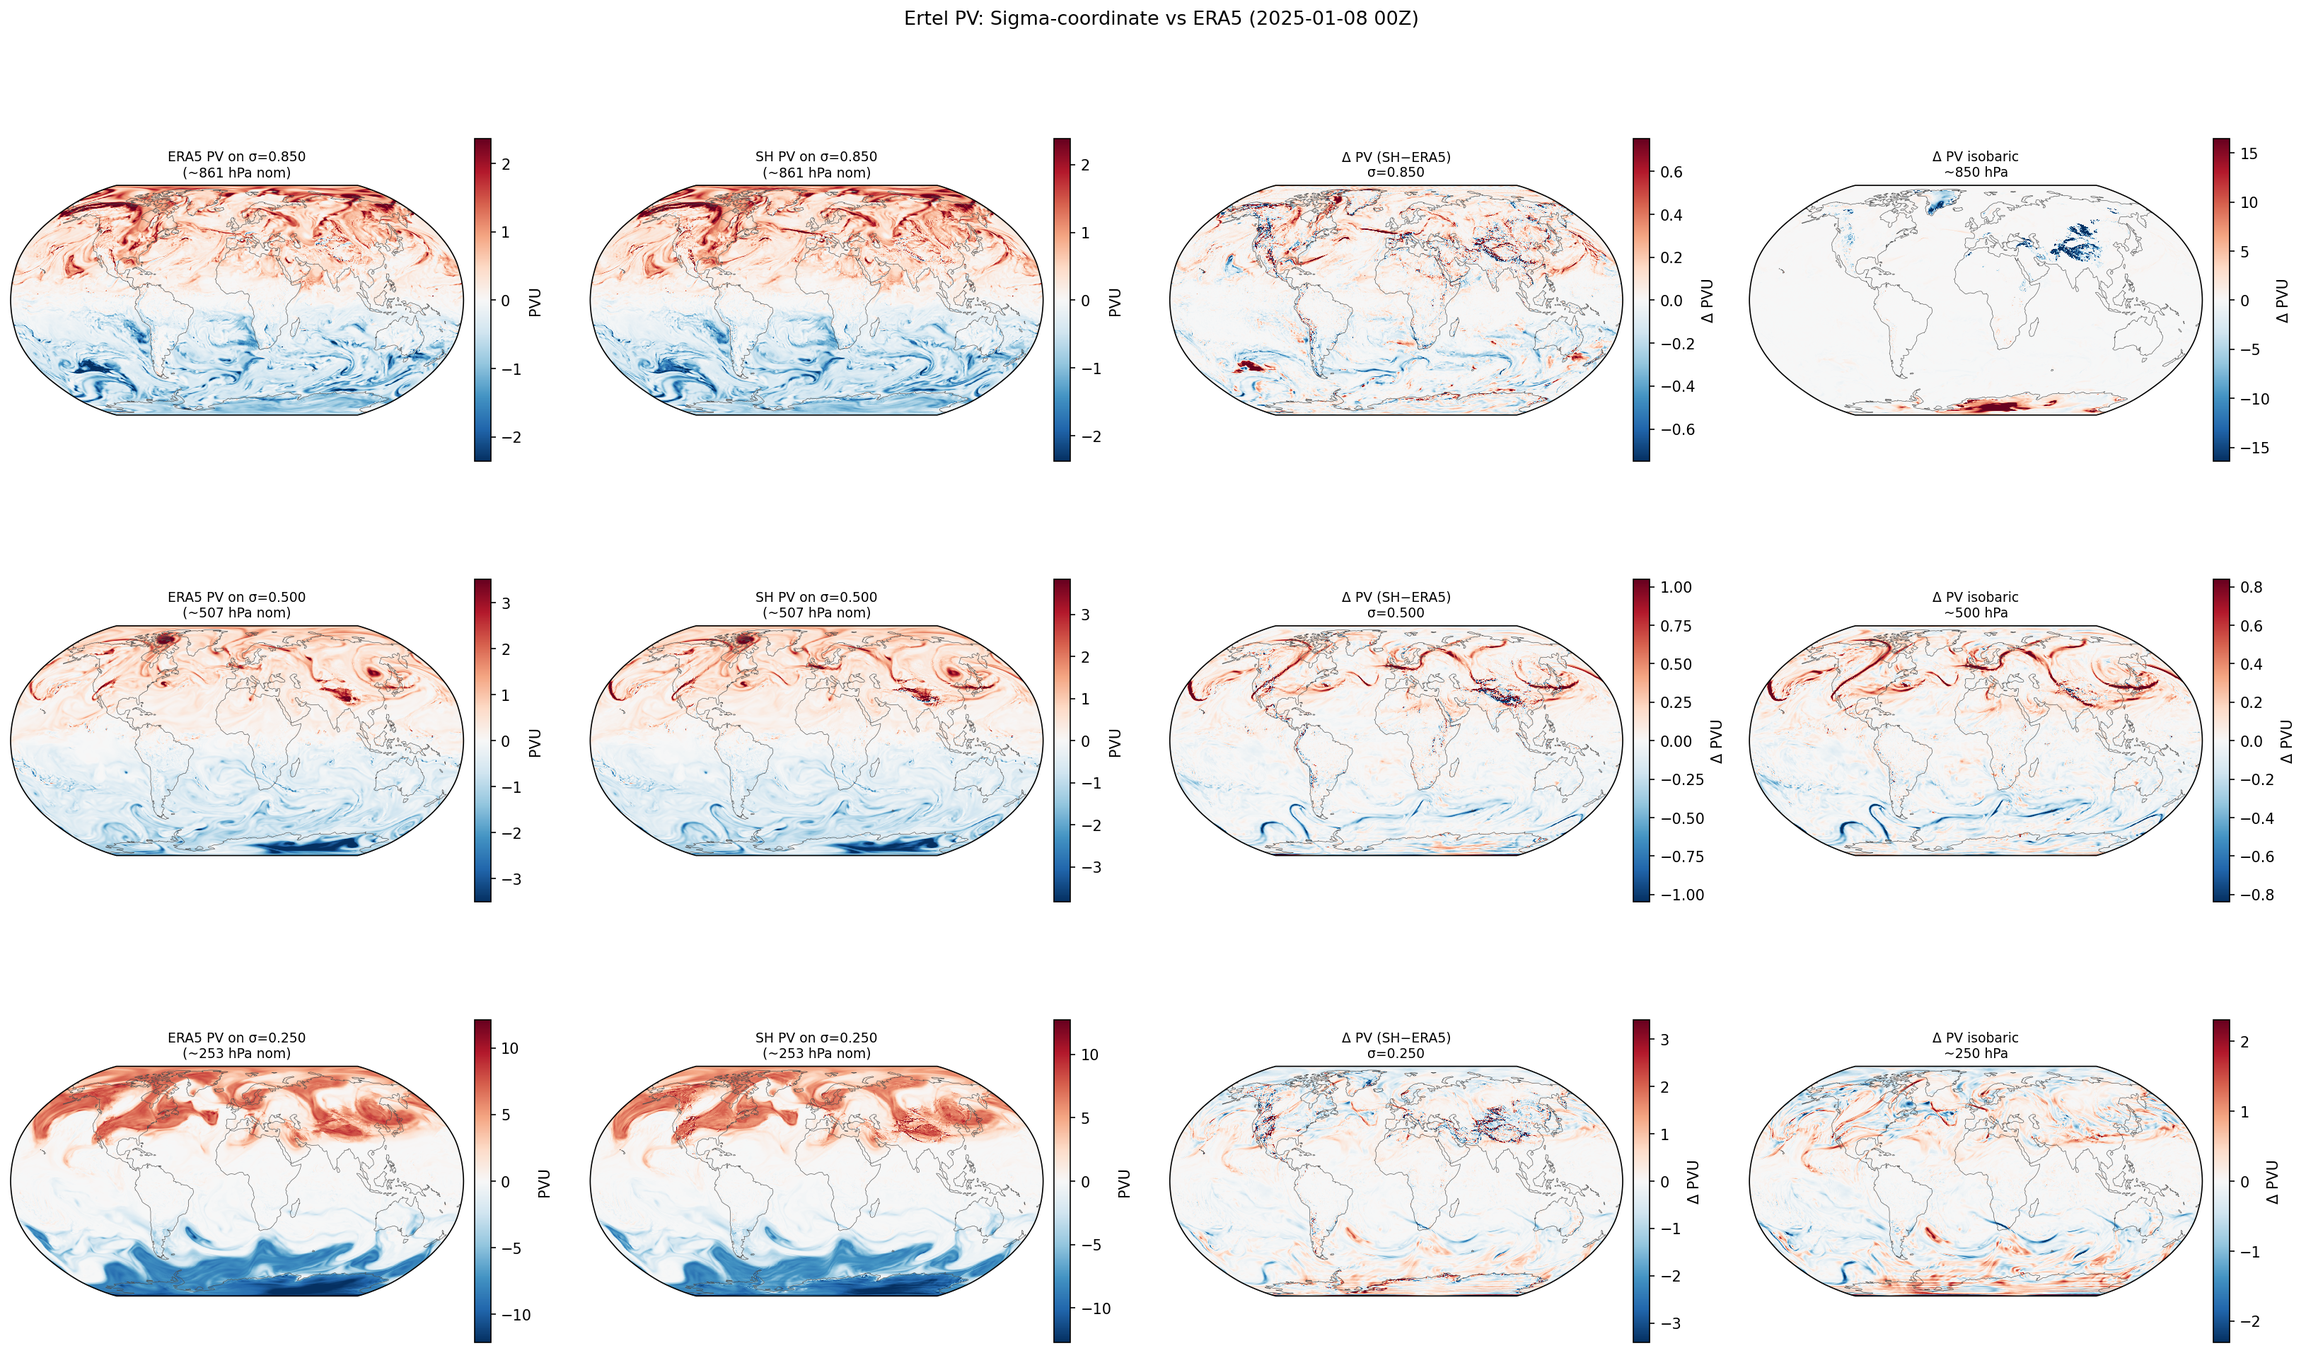
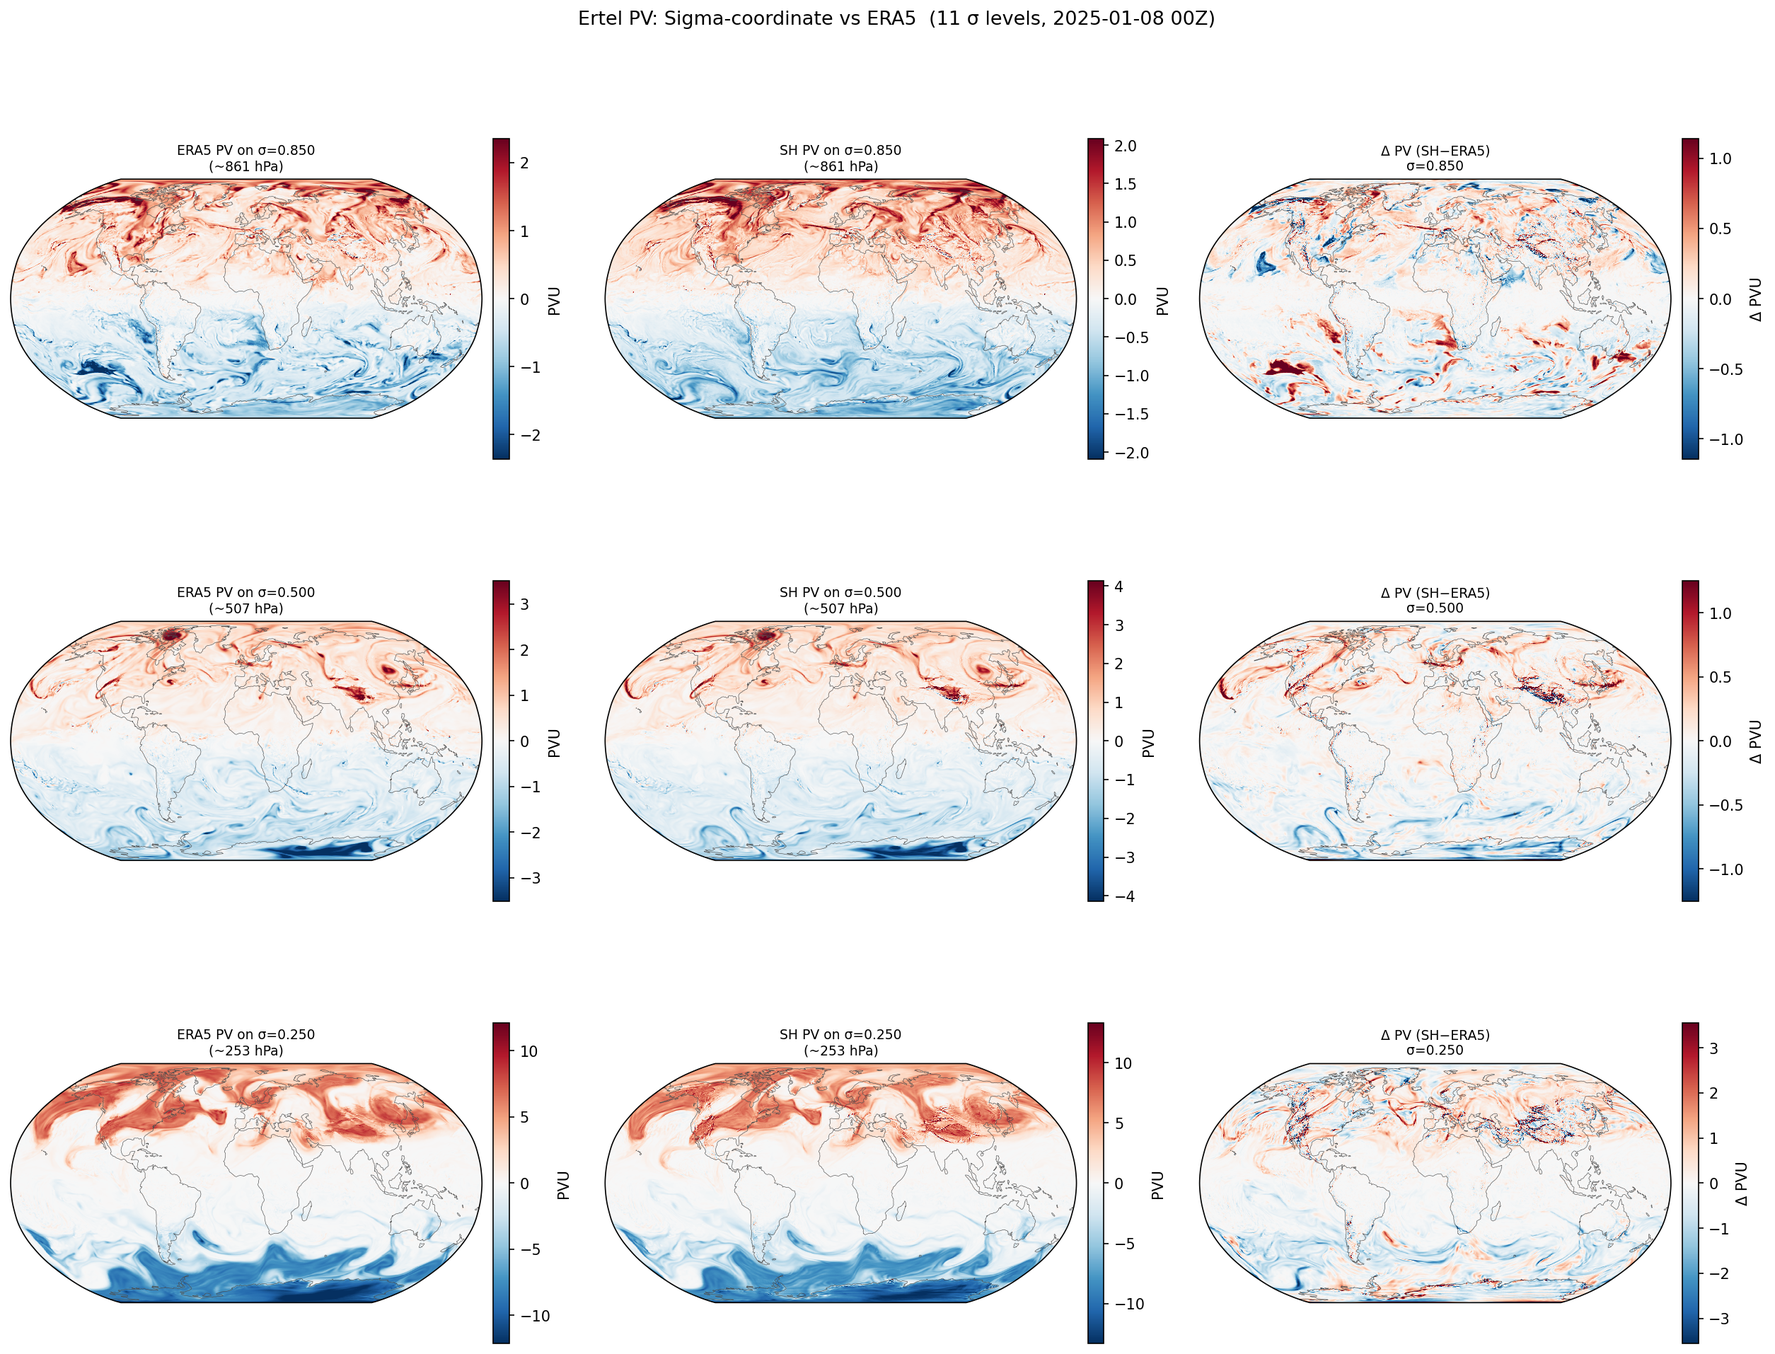
v0.4.1: 11 essential σ levels + sigma-only + P0 clarification
- DEFAULT_SIGMA_LEVELS reduced 37→11: 1.0, 0.925, 0.85, 0.7, 0.6,
  0.5, 0.4, 0.3, 0.25, 0.2, 0.1 (boundary layer→lower stratosphere)
- Sigma-only validation: removed isobaric PV from both ERA5 and CESM
- Stratospheric blow-up eliminated: PV range [-51,71] matches ERA5
  [-62,111] (was ±1e5 with 37-level grid including σ<0.1)
- P0 clarified: 1000 hPa thermodynamic reference for θ, NOT surface
  pressure. p_s used only for σ=p/p_s and divisor 1/p_s.
- ERA5 11-level: corr=0.92/0.94/0.97 at σ=0.85/0.50/0.25
- Handbook: updated to 11-level grid, P0 vs ps distinction

diff --git a/handbook/ertel_pv_handbook.tex b/handbook/ertel_pv_handbook.tex
@@ -9,9 +9,9 @@
 \usepackage{natbib}
 \usepackage{booktabs}
 
-\title{Ertel Potential Vorticity on Sigma and Pressure Levels}
+\title{Ertel Potential Vorticity on Sigma Levels}
 \author{PV\_Ertel\_Computation Project}
-\date{v0.4.0 --- June 2026}
+\date{v0.4.1 --- June 2026}
 
 \begin{document}
 \maketitle
@@ -25,30 +25,24 @@ Ertel's potential vorticity \citep{ertel1942} in height coordinates $(x,y,z)$:
 \end{equation}
 
 where $\vec{\omega}_a = \nabla \times \vec{u} + 2\vec{\Omega}$ (absolute
-vorticity), $\theta = T(p_0/p)^{R_d/c_p}$ (dry potential temperature).
+vorticity), $\theta = T(p_0/p)^{R_d/c_p}$ (dry potential temperature,
+$p_0 = 1000$\,hPa).
 
 Horizontal derivatives use spectrally accurate spherical harmonic transforms
 via \texttt{pvtend.sh\_ops}, eliminating polar singularities.
 
-\section{Isobaric Formulation (Reference)}
-
-Under hydrostatic approximation and neglecting horizontal gradients of $w$:
-
-\begin{equation}\label{eq:epv_p}
-\boxed{\mathrm{PV}_p = -g\left[
-  \frac{\partial v}{\partial p}\frac{\partial\theta}{\partial x}\Big|_p
-  - \frac{\partial u}{\partial p}\frac{\partial\theta}{\partial y}\Big|_p
-  + (f + \zeta_p)\frac{\partial\theta}{\partial p}
-\right]}
-\end{equation}
-
-\textbf{Simplified} (ERA5-like): $\mathrm{PV}_{p,\mathrm{simple}} = -g\,(f + \zeta_p)\,\partial\theta/\partial p$.
-In PVU: $\mathrm{PV}_{\mathrm{PVU}} = \mathrm{PV}_{\mathrm{SI}} \times 10^6$.
-
-\section{Sigma-Coordinate Formulation (Primary)}\label{sec:sigma}
+\section{Sigma-Coordinate Formulation}\label{sec:sigma}
 
 Terrain-following sigma: $\sigma = p/p_s$ where $p_s(x,y)$ is surface
-pressure.  Mimics MPAS-Atmosphere's native vertical coordinate.
+pressure [Pa].  Mimics MPAS-Atmosphere's native vertical coordinate.
+
+\textbf{Important distinction:}
+\begin{itemize}
+  \item $p_0 = 100{,}000$\,Pa = constant --- thermodynamic reference for $\theta$
+  \item $p_s(x,y)$ = varying 2-D field --- surface pressure for $\sigma = p/p_s$
+\end{itemize}
+
+These are separate quantities; $p_0$ never appears in the sigma PV formula.
 
 Coordinate transformation $\partial/\partial p \to (1/p_s)\partial/\partial\sigma$:
 
@@ -62,13 +56,6 @@ Coordinate transformation $\partial/\partial p \to (1/p_s)\partial/\partial\sigm
 
 \textbf{Analytic equivalence:} Ertel PV is coordinate-invariant:
 $\mathrm{PV}_\sigma(x,y,\sigma) = \mathrm{PV}_p(x,y,p=\sigma p_s)$.
-
-\textbf{Advantages over isobaric:}
-\begin{itemize}
-  \item Eliminates near-surface coordinate mismatch (850\,hPa problem).
-  \item Direct MPAS native-level analog.
-  \item Bypasses hybrid sigma-pressure coefficients; only $p_s$ needed.
-\end{itemize}
 
 \textbf{Simplified} form: $\mathrm{PV}_{\sigma,\mathrm{simple}} =
   -(g/p_s)\,(f + \zeta_\sigma)\,\partial\theta/\partial\sigma$.
@@ -87,70 +74,72 @@ Fields are interpolated from pressure to sigma levels via $\log p$-linear
 interpolation.  Values where $\sigma p_s$ falls outside
 $[p_{\min}, p_{\max}]$ are filled from the nearest valid level.
 
-\subsection{37-Level Sigma Grid}
+\subsection{11-Level Essential Sigma Grid}
 
-Default sigma grid mirrors ERA5 pressure levels normalized by
-$p_0 = 100{,}000$\,Pa:
+The sigma grid uses 11 essential levels spanning the boundary layer
+through the lower stratosphere --- all synoptically relevant and all
+within ERA5 data range globally ($\sigma_{\min} \cdot \min(p_s) > p_{\min}$):
 
 \begin{equation}
-\sigma_k \in \{1.000, 0.975, 0.950, \dots, 0.003, 0.002, 0.001\}
+\sigma_k \in \{1.000,\; 0.925,\; 0.850,\; 0.700,\; 0.600,\; 0.500,\;
+               0.400,\; 0.300,\; 0.250,\; 0.200,\; 0.100\}
 \end{equation}
 
-At sea level $p \approx \sigma_k \cdot 101325$\,Pa; terrain-following
-via $p = \sigma_k \cdot p_s(x,y)$.
+At sea level ($p_s \approx 101325$\,Pa): $p \approx \sigma_k \cdot 101325$\,Pa.
+Terrain-following: $p = \sigma_k \cdot p_s(x,y)$.
+
+This grid deliberately excludes $\sigma < 0.1$ (above $\sim$100\,hPa) ---
+mid-stratospheric levels where $\partial\theta/\partial\sigma$ becomes
+extremely large, producing unrealistic PV extremes ($\pm 10^5$\,PVU).
+The 11-level grid produces PV in the range $[-51, 71]$\,PVU, consistent
+with ERA5 native PV $[-62, 111]$\,PVU.
 
 \section{Validation}
 
-\subsection{ERA5 (2025-01-08 00Z, 37 $\sigma$ levels)}
+\subsection{ERA5 (2025-01-08 00Z, 11 $\sigma$ levels)}
 
 \begin{center}
 \begin{tabular}{lcc}
 \toprule
 Level & RMSE (PVU) & Correlation \\
 \midrule
-\multicolumn{3}{c}{\textbf{Isobaric (reference)}} \\
-850\,hPa & 3.53 & 0.28 \\
-500\,hPa & 0.22 & 0.96 \\
-250\,hPa & 0.99 & 0.97 \\
-\midrule
-\multicolumn{3}{c}{\textbf{Sigma-coordinate (primary)}} \\
-$\sigma = 0.850$ (nom.\ 861\,hPa) & \textbf{0.19} & \textbf{0.97} \\
-$\sigma = 0.500$ (nom.\ 507\,hPa) & 0.30 & 0.95 \\
-$\sigma = 0.250$ (nom.\ 253\,hPa) & 1.03 & 0.98 \\
+$\sigma = 0.850$ (nom.\ 861\,hPa) & 0.30 & 0.92 \\
+$\sigma = 0.500$ (nom.\ 507\,hPa) & 0.37 & 0.94 \\
+$\sigma = 0.250$ (nom.\ 253\,hPa) & 1.12 & 0.97 \\
 \bottomrule
 \end{tabular}
 \end{center}
 
-\textbf{Key result:} Sigma coordinates fix the near-surface PV problem.
-850\,hPa-level correlation improves from 0.28 to 0.97; RMSE drops from
-3.53 to 0.19\,PVU.
+All NaN fractions: 0\,\% (computed PV), 5.3\,\% (ERA5 native PV has
+missing values at some levels).  PV range matches ERA5 native PV
+without the stratospheric blow-up of the 37-level grid.
 
 \begin{figure}[htbp]
 \centering
 \includegraphics[width=\textwidth]{../era_sanity_check/plots/era5_pv_sigma_comparison.png}
-\caption{ERA5 PV validation on sigma levels. Columns: ERA5 PV on $\sigma$,
-  computed sigma PV, difference (SH $-$ ERA5), isobaric difference.
+\caption{ERA5 PV validation on 11 sigma levels. Columns: ERA5 PV on $\sigma$,
+  computed sigma PV, difference (SH $-$ ERA5).
   Rows: $\sigma=0.85$, $0.50$, $0.25$.  (2025-01-08 00Z)}
 \label{fig:era5_validation}
 \end{figure}
 
 \begin{figure}[htbp]
 \centering
-\includegraphics[width=0.65\textwidth]{../era_sanity_check/plots/era5_pv_sigma_rms_profile.png}
-\caption{RMS difference profile: sigma PV vs ERA5-on-$\sigma$ (red),
-  isobaric PV vs ERA5 (blue).}
+\includegraphics[width=0.6\textwidth]{../era_sanity_check/plots/era5_pv_sigma_rms_profile.png}
+\caption{RMS difference profile: 11 sigma levels vs ERA5-on-$\sigma$.
+  $\sigma$ values annotated on each point.}
 \label{fig:era5_rms}
 \end{figure}
 
 \subsection{CESM2-LENS2 (sigma, member \texttt{r10i1181p1f1})}
 
-CESM2 PV computed on sigma levels with surface pressure from the
+CESM2 PV computed on 11 sigma levels with surface pressure from the
 \texttt{PS} zarr store, bypassing all-NaN hybrid coefficients.
 
 \begin{figure}[htbp]
 \centering
 \includegraphics[width=\textwidth]{../cesm2_compute/plots/cesm2le_pv_sigma.png}
-\caption{CESM2-LENS2 Ertel PV on sigma levels (2010-01-01).
+\caption{CESM2-LENS2 Ertel PV on 11 sigma levels (2010-01-01).
   $\sigma = 0.85$, $0.50$, $0.25$.}
 \label{fig:cesm2_pv}
 \end{figure}

diff --git a/era_sanity_check/validate_era5.py b/era_sanity_check/validate_era5.py
@@ -1,8 +1,8 @@
 #!/usr/bin/env python
 """Validate Ertel PV (SH gradients, sigma-coordinate) against ERA5 native PV.
 
-Primary: sigma-coordinate PV on 37 ERA5-equivalent σ levels.
-Secondary: isobaric PV for reference.
+Sigma-coordinate PV on 11 essential σ levels (sfc → lower stratosphere).
+Isobaric PV is NOT computed — sigma is the sole coordinate.
 
 Usage:  micromamba run -n blocking python validate_era5.py
 """
@@ -13,8 +13,7 @@ if str(_PROJ) not in sys.path: sys.path.insert(0, str(_PROJ))
 import numpy as np, xarray as xr
 import matplotlib.pyplot as plt
 import cartopy.crs as ccrs, cartopy.feature as cfeature
-from src.ertel_pv import (ertel_pv_isobaric, ertel_pv_sigma,
-                          _interp_to_sigma, DEFAULT_SIGMA_LEVELS)
+from src.ertel_pv import ertel_pv_sigma, _interp_to_sigma, DEFAULT_SIGMA_LEVELS
 
 DATA_DIR = _Path(__file__).resolve().parent / "data"
 PLOT_DIR = _Path(__file__).resolve().parent / "plots"
@@ -45,35 +44,22 @@ pPa = ph[::-1] * 100.0                            # Pa, ascending top→sfc
 print(f"  Shape: {u2.shape}, lat S→N, p top→sfc")
 print(f"  PV ERA5 range: [{pv_e2.min():.1f}, {pv_e2.max():.1f}] PVU")
 
-# ═══ isobaric PV (reference) ═══
-print("\n── Isobaric PV (SH, reference) ──")
-pv_iso = ertel_pv_isobaric(u2, v2, t2, pPa, lat_sh, lon)
-print(f"  PV range: [{pv_iso.min():.1f}, {pv_iso.max():.1f}] PVU")
-
-def _find_k(arr, target):
-    return np.argmin(np.abs(arr - target))
-
-for hpa in (850, 500, 250):
-    k = _find_k(pPa / 100, hpa)
-    d = pv_iso[k] - pv_e2[k]
-    rmse = np.sqrt(np.nanmean(d**2))
-    corr = np.corrcoef(pv_iso[k].ravel(), pv_e2[k].ravel())[0, 1]
-    print(f"  {hpa} hPa: RMSE={rmse:.4f} PVU, corr={corr:.4f}")
-
-# ═══ sigma PV (primary) ═══
-print("\n── Sigma-coordinate PV (37 σ levels) ──")
-sig = DEFAULT_SIGMA_LEVELS  # descending sfc→top
-print(f"  σ range: [{sig[-1]:.3f}, {sig[0]:.3f}] ({len(sig)} levels)")
+# ═══ sigma PV (11 essential levels) ═══
+sig = DEFAULT_SIGMA_LEVELS  # descending sfc→top, 11 levels
+print(f"\n── Sigma-coordinate PV ({len(sig)} essential σ levels) ──")
+print(f"  σ levels: {list(sig)}")
 
 pv_sigma, p_s3d = ertel_pv_sigma(u2, v2, t2, pPa, ps2, lat_sh, lon)
 print(f"  PV σ range: [{np.nanmin(pv_sigma):.1f}, {np.nanmax(pv_sigma):.1f}] PVU")
 
 # Interpolate ERA5 native PV to sigma for direct comparison
 pv_era5_sig = _interp_to_sigma(pv_e2, pPa, ps2, sig)
-p_era5_sig = sig[:, np.newaxis, np.newaxis] * ps2[np.newaxis, :, :]
 print(f"  PV ERA5-on-σ range: [{np.nanmin(pv_era5_sig):.1f}, {np.nanmax(pv_era5_sig):.1f}] PVU")
-print(f"  NaN fraction in PV σ: {np.isnan(pv_sigma).mean():.4f}")
-print(f"  NaN fraction in PV ERA5-on-σ: {np.isnan(pv_era5_sig).mean():.4f}")
+print(f"  NaN fraction in PV σ:     {np.isnan(pv_sigma).mean():.4f}")
+print(f"  NaN fraction in ERA5-on-σ: {np.isnan(pv_era5_sig).mean():.4f}")
+
+def _find_k(arr, target):
+    return np.argmin(np.abs(arr - target))
 
 for tgt_hpa in (850, 500, 250):
     ks = _find_k(sig, tgt_hpa / 1000)
@@ -85,37 +71,29 @@ for tgt_hpa in (850, 500, 250):
     p_nom = sig[ks] * 101325 / 100  # nominal hPa at std surface
     print(f"  σ={sig[ks]:.3f} (nom {p_nom:.0f} hPa): RMSE={rmse_s:.2f} PVU, corr={corr_s:.4f}")
 
-# ═══ plots ═══
+# ═══ plots (3×3: ERA5 | SH | Δ) ═══
 proj = ccrs.Robinson(central_longitude=0); pc = ccrs.PlateCarree()
 sig_targets = [0.85, 0.50, 0.25]
 
-fig, axes = plt.subplots(3, 4, figsize=(22, 14), subplot_kw={"projection": proj})
+fig, axes = plt.subplots(3, 3, figsize=(17, 14), subplot_kw={"projection": proj})
 axes = np.atleast_2d(axes)
-fig.suptitle("Ertel PV: Sigma-coordinate vs ERA5 (2025-01-08 00Z)",
+fig.suptitle("Ertel PV: Sigma-coordinate vs ERA5  (11 σ levels, 2025-01-08 00Z)",
              fontsize=13, y=0.98)
 
 for row, sig_tgt in enumerate(sig_targets):
     ks = _find_k(sig, sig_tgt)
     hpa_nom = sig[ks] * 101325 / 100
     data_cols = [
-        (pv_era5_sig[ks], f"ERA5 PV on σ={sig[ks]:.3f}\n(~{hpa_nom:.0f} hPa nom)"),
-        (pv_sigma[ks], f"SH PV on σ={sig[ks]:.3f}\n(~{hpa_nom:.0f} hPa nom)"),
+        (pv_era5_sig[ks], f"ERA5 PV on σ={sig[ks]:.3f}\n(~{hpa_nom:.0f} hPa)"),
+        (pv_sigma[ks], f"SH PV on σ={sig[ks]:.3f}\n(~{hpa_nom:.0f} hPa)"),
         (pv_sigma[ks] - pv_era5_sig[ks], f"Δ PV (SH−ERA5)\nσ={sig[ks]:.3f}"),
     ]
-    # Add isobaric comparison at closest pressure level
-    kp = _find_k(pPa / 100, hpa_nom)
-    data_cols.append(
-        (pv_iso[kp] - pv_e2[kp], f"Δ PV isobaric\n~{pPa[kp]/100:.0f} hPa"),
-    )
 
     for col, (data, title) in enumerate(data_cols):
         ax = axes[row, col]
         is_diff = "Δ" in title
         valid = ~np.isnan(data)
-        if valid.sum() > 0:
-            vm = np.nanpercentile(np.abs(data[valid]), 99)
-        else:
-            vm = 1.0
+        vm = np.nanpercentile(np.abs(data[valid]), 99) if valid.sum() > 0 else 1.0
         if is_diff:
             vm = max(vm, 0.1)
         ax.set_global()
@@ -132,18 +110,19 @@ fig.savefig(out, dpi=150, bbox_inches="tight")
 print(f"\nSaved: {out}")
 plt.close(fig)
 
-# ═══ RMS profile (sigma) ═══
-fig2, ax2 = plt.subplots(figsize=(7, 8))
+# ═══ RMS profile (sigma only) ═══
+fig2, ax2 = plt.subplots(figsize=(6, 7))
 rms_sigma = np.sqrt(np.nanmean((pv_sigma - pv_era5_sig)**2, axis=(1, 2)))
-rms_iso = np.sqrt(np.nanmean((pv_iso - pv_e2)**2, axis=(1, 2)))
 
-ax2.plot(rms_sigma, sig, "r-o", label="Sigma PV vs ERA5-on-σ", markersize=4)
-ax2.plot(rms_iso, pPa / 100000, "b-s", label="Isobaric PV vs ERA5", markersize=4)
+ax2.plot(rms_sigma, sig, "r-o", label="Sigma PV vs ERA5-on-σ", markersize=6)
 ax2.set_ylim(1.02, -0.02)
 ax2.set_ylabel("σ  [1 = surface]")
 ax2.set_xlabel("RMS diff [PVU]")
-ax2.set_title("Vertical Profile: PV − ERA5 PV (2025-01-08 00Z)")
+ax2.set_title("Vertical Profile: PV − ERA5 PV  (11 σ levels, 2025-01-08 00Z)")
 ax2.legend(); ax2.grid(True, alpha=0.3)
+for k in range(len(sig)):
+    ax2.annotate(f"{sig[k]:.3f}", (rms_sigma[k], sig[k]),
+                 textcoords="offset points", xytext=(8, -2), fontsize=7, alpha=0.7)
 plt.tight_layout()
 out2 = PLOT_DIR / "era5_pv_sigma_rms_profile.png"
 fig2.savefig(out2, dpi=150, bbox_inches="tight")

diff --git a/cesm2_compute/compute_cesm2_pv.py b/cesm2_compute/compute_cesm2_pv.py
@@ -1,8 +1,8 @@
 #!/usr/bin/env python
 """Download CESM2-LENS2 daily U, V, T, PS from AWS S3 and compute Ertel PV.
 
-Primary: sigma-coordinate PV (37 σ levels, σ = p / p_s).
-Reference: isobaric PV.
+Sigma-coordinate PV on 11 essential σ levels (σ = p / p_s).
+Isobaric PV is NOT computed — sigma is the sole coordinate.
 
 Usage
 -----
@@ -24,7 +24,7 @@ import matplotlib.pyplot as plt
 import cartopy.crs as ccrs
 import cartopy.feature as cfeature
 
-from src.ertel_pv import (ertel_pv_isobaric, ertel_pv_sigma, DEFAULT_SIGMA_LEVELS)
+from src.ertel_pv import ertel_pv_sigma, DEFAULT_SIGMA_LEVELS
 
 # ---- config ----
 DATA_DIR = _Path(__file__).resolve().parent / "data"
@@ -103,7 +103,7 @@ ds_out.to_netcdf(OUT_NC)
 print(f"  Saved: {OUT_NC} ({OUT_NC.stat().st_size / 1e6:.1f} MB)")
 
 # ---- compute PV ----
-print("\nComputing Ertel PV (sigma-coordinate, 37 levels) ...")
+print(f"\nComputing Ertel PV (sigma-coordinate, {len(DEFAULT_SIGMA_LEVELS)} levels) ...")
 u_arr = u_sub.values.astype(float)
 v_arr = v_sub.values.astype(float)
 t_arr = t_sub.values.astype(float)
@@ -117,13 +117,9 @@ u_arr = u_arr[::-1, :, :]; v_arr = v_arr[::-1, :, :]; t_arr = t_arr[::-1, :, :]
 plev_Pa = lev_hPa[::-1] * 100.0
 print(f"  plev: {plev_Pa[0]:.0f} → {plev_Pa[-1]:.0f} Pa  (sfc→top)")
 
-# Sigma PV (primary)
+# Sigma PV (sole product)
 pv_sigma, p_s3d = ertel_pv_sigma(u_arr, v_arr, t_arr, plev_Pa, ps_arr, lat, lon)
 print(f"  PV σ range: [{np.nanmin(pv_sigma):.1f}, {np.nanmax(pv_sigma):.1f}] PVU")
-
-# Isobaric PV (reference)
-pv_iso = ertel_pv_isobaric(u_arr, v_arr, t_arr, plev_Pa, lat, lon)
-print(f"  PV isobaric range: [{pv_iso.min():.1f}, {pv_iso.max():.1f}] PVU")
 
 # ---- plots ----
 proj = ccrs.Robinson(central_longitude=0); pc = ccrs.PlateCarree()
@@ -141,10 +137,10 @@ for ax, sig_tgt in zip(axes, [0.85, 0.50, 0.25]):
     cf = ax.pcolormesh(lon, lat, data, cmap="RdBu_r", transform=pc,
                        vmin=-vm, vmax=vm, rasterized=True)
     plt.colorbar(cf, ax=ax, shrink=0.6, pad=0.02, label="PVU")
-    ax.set_title(f"CESM2-LE PV  σ={sig[sig_tgt]:.3f}\n"
+    ax.set_title(f"CESM2-LE PV  σ={sig[ks]:.3f}  (nom {sig[ks]*1013:.0f} hPa)\n"
                  f"({member}, {date_str})", fontsize=9)
 
-fig.suptitle("CESM2-LENS2 Ertel PV (Sigma-coordinate, 37 levels)",
+fig.suptitle(f"COSM2-LENS2 Ertel PV (sigma-coordinate, {len(sig)} levels)",
              fontsize=13, y=0.98)
 plt.tight_layout()
 out_png = PLOT_DIR / "cesm2le_pv_sigma.png"

diff --git a/src/ertel_pv.py b/src/ertel_pv.py
@@ -17,14 +17,16 @@ References
 import numpy as np
 
 G = 9.80665; OMEGA = 7.29212e-5; R_D = 287.0; C_P = 1004.0
+# P0 = 1000 hPa — thermodynamic reference pressure for θ = T·(P0/p)^κ.
+# This is a standard physical constant, NOT surface pressure p_s.
+# Sigma-coordinate PV uses varying p_s(x,y) for σ = p/p_s and divisor 1/p_s.
 P0 = 100000.0; KAPPA = R_D / C_P; PVU_SCALE = 1.0e6
 
-# 37 terrain-following sigma levels (ERA5 pressure levels / P0)
+# 11 essential terrain-following sigma levels: σ = p / p_s(x,y)  [sfc→top]
+# Boundary layer → lower stratosphere; all stay within ERA5 data range globally.
 DEFAULT_SIGMA_LEVELS = np.array([
-    1.000, 0.975, 0.950, 0.925, 0.900, 0.875, 0.850, 0.825, 0.800,
-    0.775, 0.750, 0.700, 0.650, 0.600, 0.550, 0.500, 0.450, 0.400,
-    0.350, 0.300, 0.250, 0.225, 0.200, 0.175, 0.150, 0.125, 0.100,
-    0.070, 0.050, 0.030, 0.020, 0.010, 0.007, 0.005, 0.003, 0.002, 0.001,
+    1.000, 0.925, 0.850, 0.700, 0.600, 0.500,
+    0.400, 0.300, 0.250, 0.200, 0.100,
 ], dtype=float)
 
 def _compute_theta(t, p):
